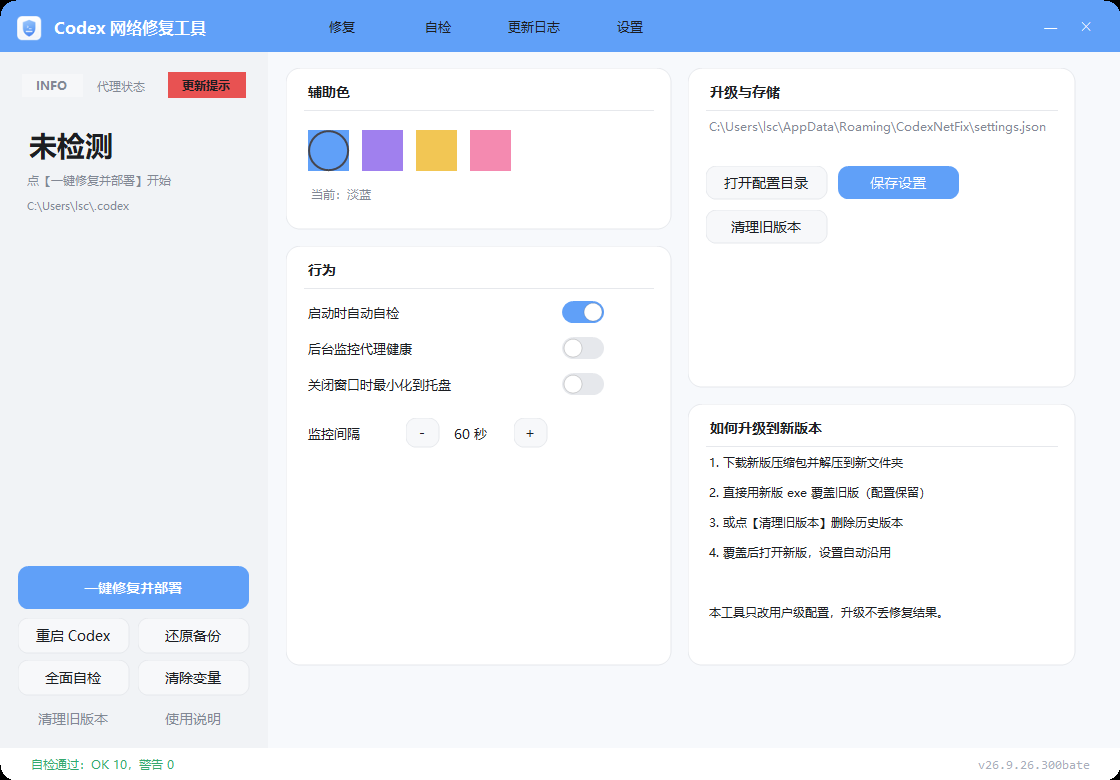
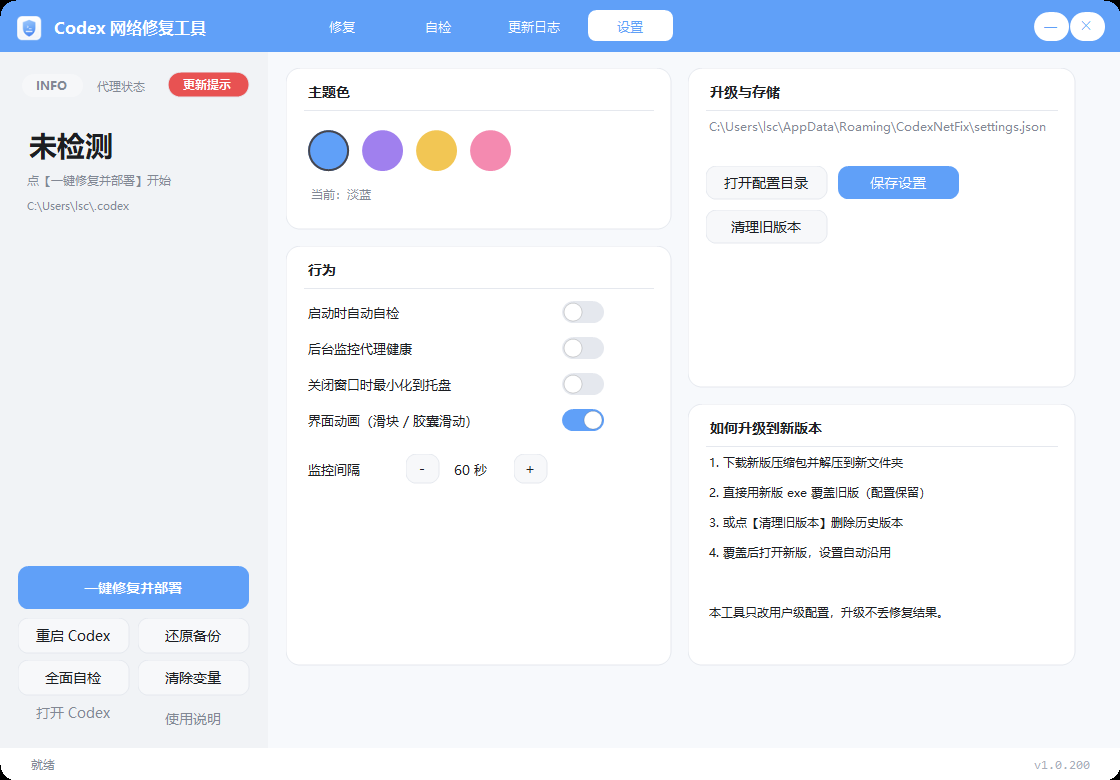
fix(ui): 清除深色模式残留控件（不再遮挡色块）；辅助色改名主题色

diff --git a/src/Program.cs b/src/Program.cs
@@ -555,9 +555,7 @@ namespace CodexNetFix
 
         void BuildSettingsPage()
         {
-            cardLook = MkCard("辅助色", 0, 0, 386, 162);
-            swDark = MkSwitch("深色模式", 18, 50, cardLook, 200);
-            swDark.CheckedChanged += delegate { ApplyThemeMode(swDark.Checked); };
+            cardLook = MkCard("主题色", 0, 0, 386, 162);
             string[] keys = new string[] { "blue", "purple", "yellow", "pink" };
             swatches = new RoundButton[4];
             for (int i = 0; i < 4; i++) swatches[i] = MkSwatch(keys[i], 22 + i * 54, 62);
@@ -774,7 +772,6 @@ namespace CodexNetFix
             cfg.CheckOnStart = swStartCheck.Checked; cfg.Monitor = swMonitor.Checked; cfg.TrayResident = swTray.Checked;
             if (swAnim != null) { cfg.EnableAnim = swAnim.Checked; Anim.Enabled = cfg.EnableAnim; }
             if (swDomestic != null) cfg.DomesticDirect = swDomestic.Checked;
-            if (swDark != null) cfg.ThemeMode = swDark.Checked ? "dark" : "light";
             int p; if (int.TryParse(txtPort.Text.Trim(), out p)) cfg.LastPort = p;
             cfg.ThemeMode = "light";
             cfg.AccentKey = accent.Key;

diff --git a/CHANGELOG.md b/CHANGELOG.md
@@ -19,6 +19,8 @@
 - 移除深色模式，恢复纯浅色界面（用户反馈深色观感不佳）
 - 修复**圆角失效**根因：`Draw.Rounded` 在半径超过短边一半时会退回直角矩形，现已改为自动收敛（红胶囊四角恢复圆角）
 - 复查：导航滑块 / 窗口按钮 / 开关 / 红胶囊，浅色下**均无黑色描边**
+- 修复：移除深色模式后残留的标签/开关遮住主题色色块
+- 文案：将「辅助色」统一改名为「**主题色**」
 - 版本号升级为 **v1.0.200**
 
 ## v1.0.125
